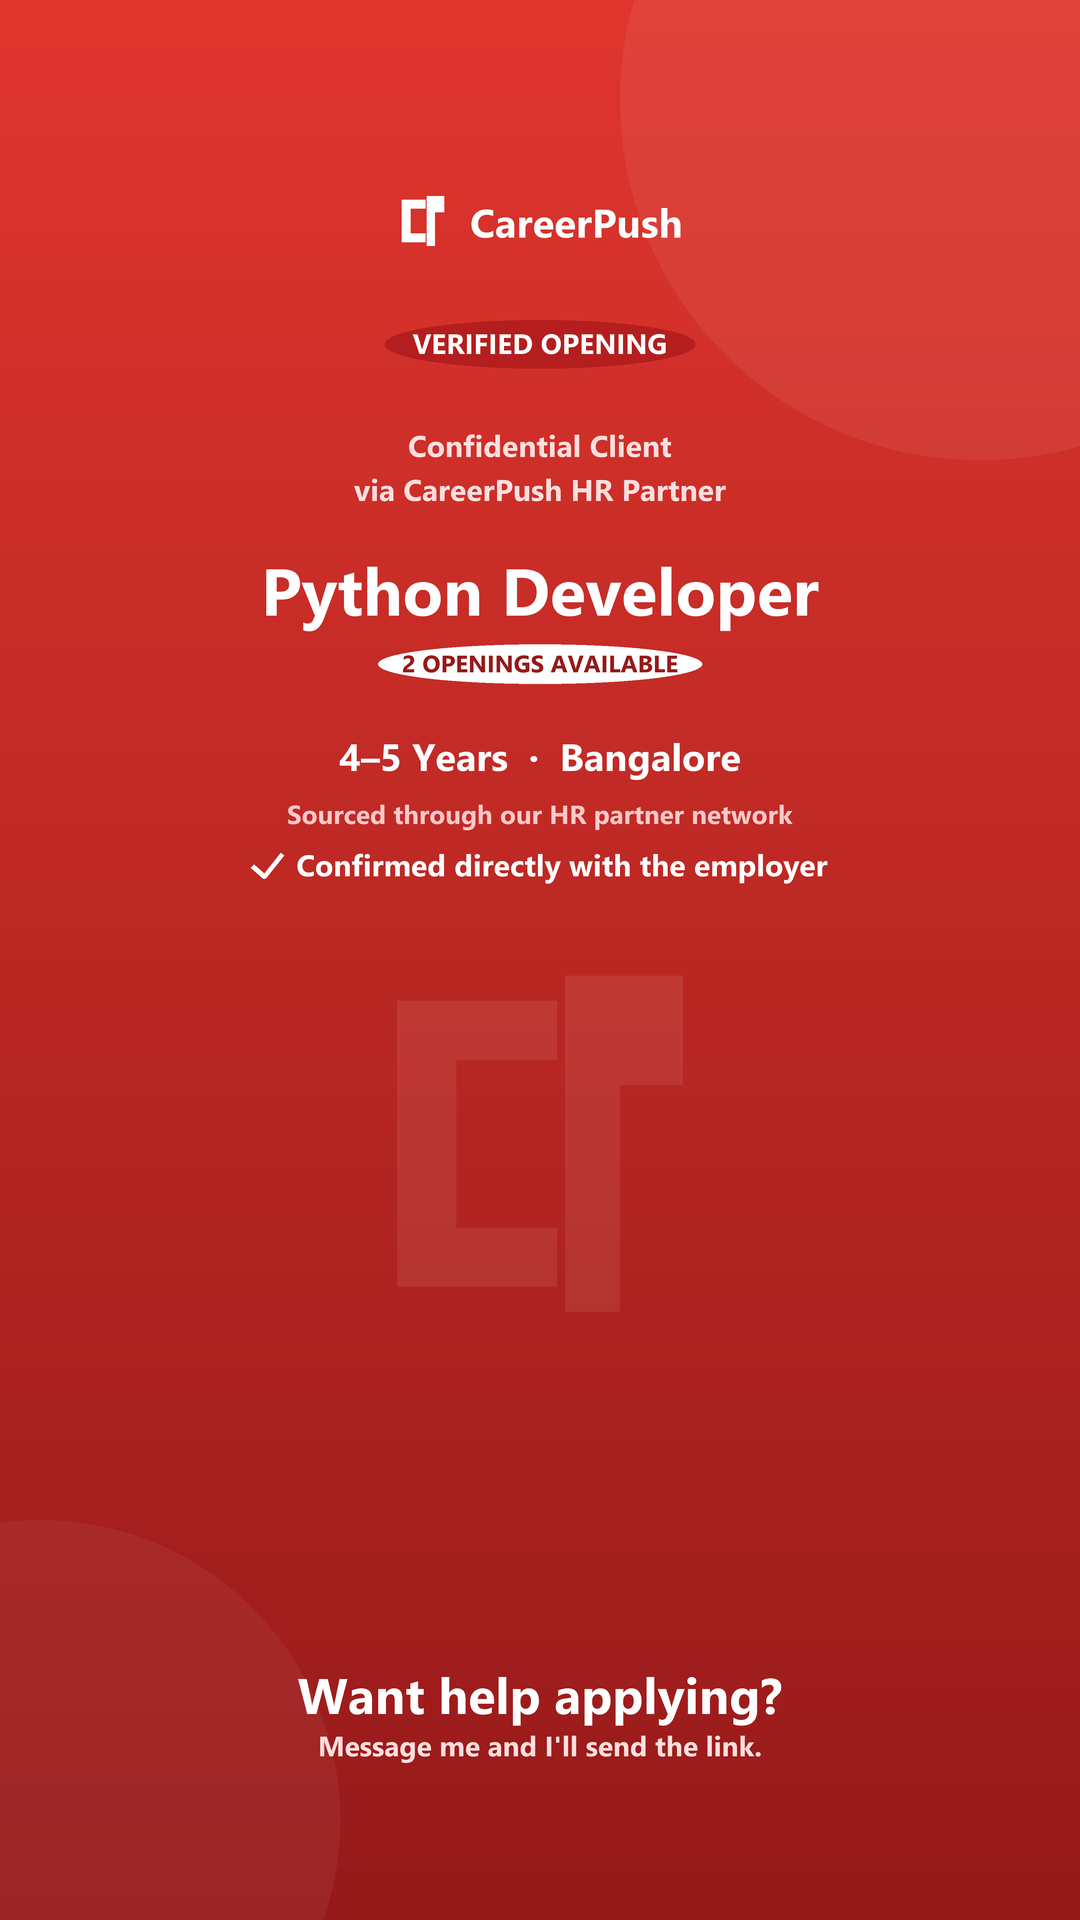
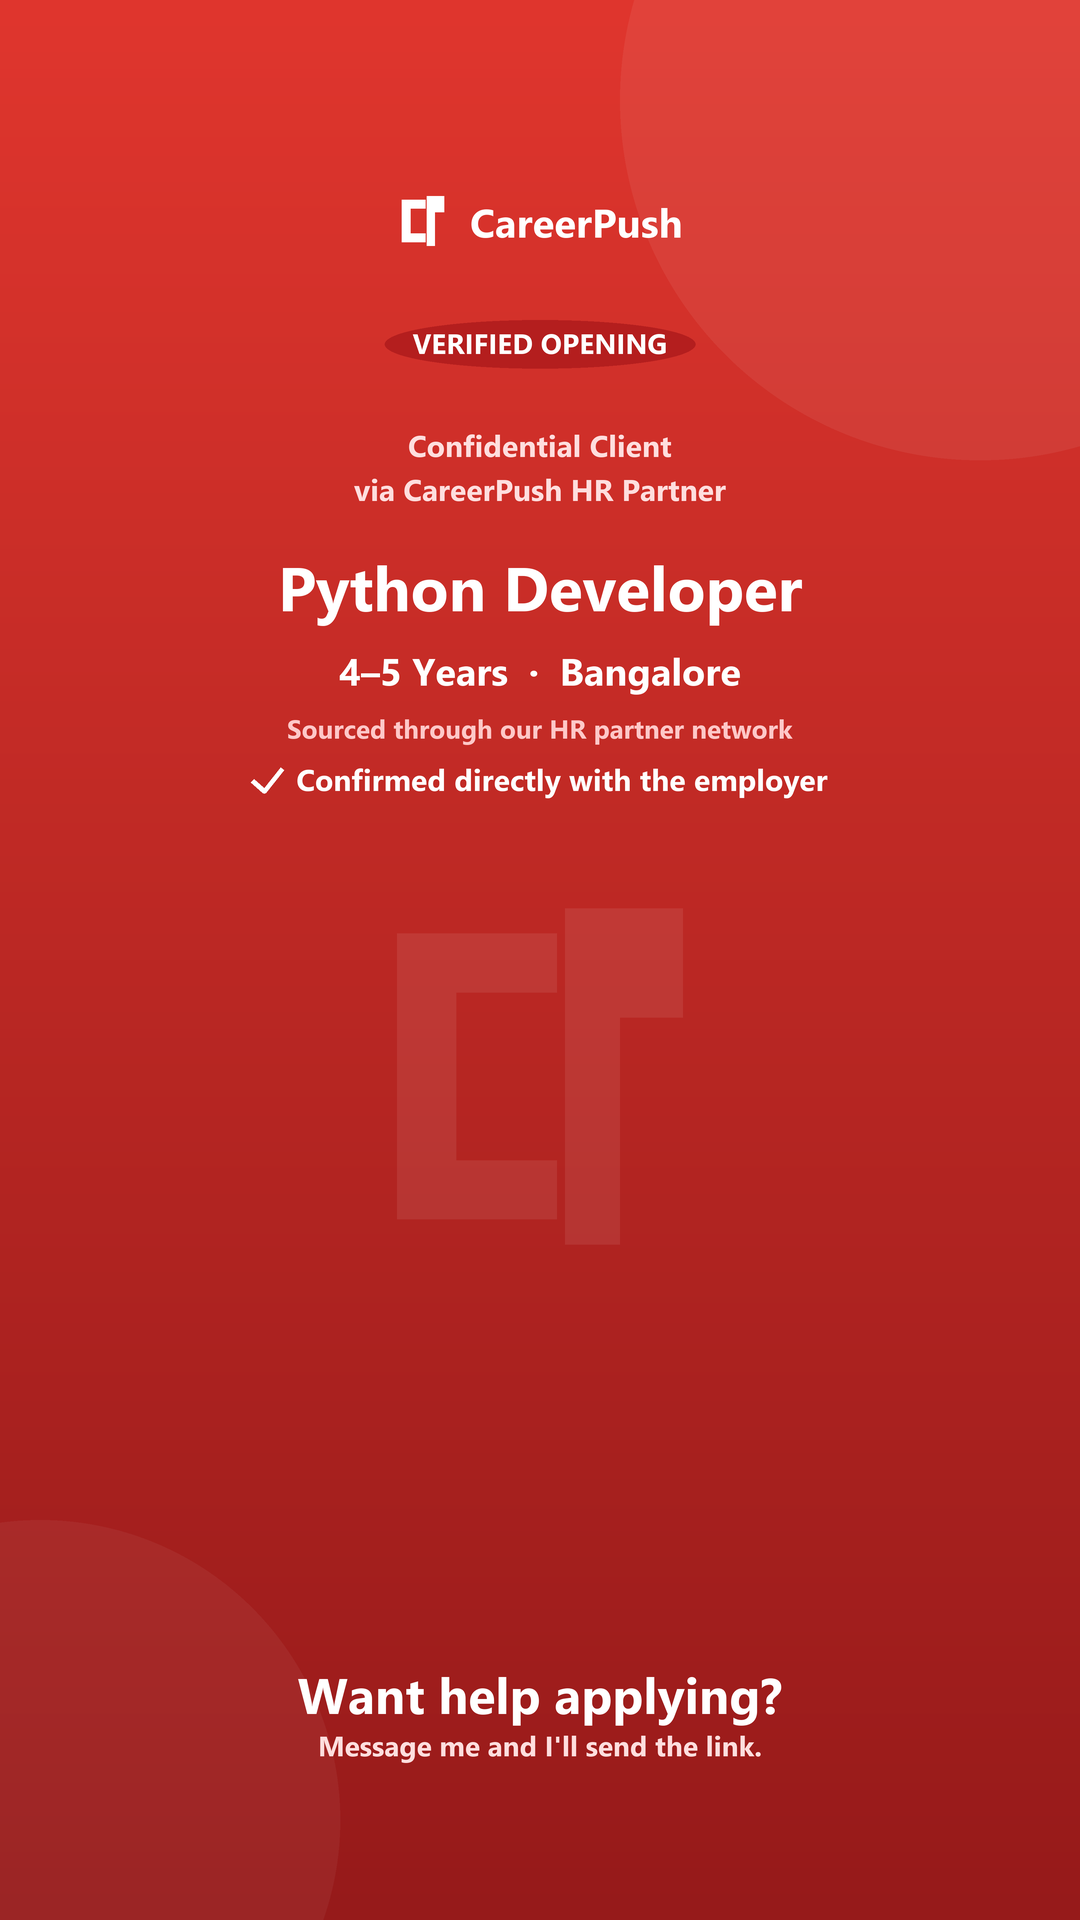
Add job-opening flyers and status posters for Python Developer and Data Engineer roles
Fixes the Python Developer status graphic to reflect one confirmed opening
(not two), adds a matching Data Engineer opening flyer/status image in the
same brand style, and tightens the flyer template's spacing so longer JDs
(8+ bullets per column) still fit on a single A4 page.

Changed region(s): [[0.2444, 0.2812, 0.7639, 0.4688]]

diff --git a/templates/job-opening-flyer-data-engineer.html b/templates/job-opening-flyer-data-engineer.html
@@ -218,7 +218,7 @@
 <div class="page">
   <div class="ribbon">
     <span class="label">OPENING</span>
-    <span class="num" contenteditable="true">01</span>
+    <span class="num" contenteditable="true">02</span>
   </div>
 
   <div class="brand-row">
@@ -237,16 +237,16 @@
   <div class="hero">
     <p class="we-are">WE ARE</p>
     <p class="hiring">HIRING!</p>
-    <div class="role-bar" contenteditable="true">Python Developer</div>
+    <div class="role-bar" contenteditable="true">Data Engineer (Mid-Level)</div>
     <div class="location-row">
       <span>&#128205;</span>
-      <span contenteditable="true">Bangalore</span>
+      <span contenteditable="true">Hybrid — [city to be confirmed]</span>
     </div>
     <div class="exp-badge">
       <span class="icon">&#128188;</span>
       <span>
         <span class="exp-label">EXPERIENCE</span><br>
-        <span class="exp-value" contenteditable="true">4 – 5 Years</span>
+        <span class="exp-value" contenteditable="true">3 – 5 Years</span>
       </span>
     </div>
   </div>
@@ -254,7 +254,7 @@
   <div class="body-grid">
     <div>
       <p class="section-title">ABOUT THE ROLE</p>
-      <p class="about-text" contenteditable="true">We are looking for a Python Developer with 4 to 5 years of experience to develop, maintain, and enhance enterprise automation solutions. The candidate will independently manage application development, API integrations, server deployment, scheduled jobs, reporting, and production support.</p>
+      <p class="about-text" contenteditable="true">We are seeking a skilled Data Engineer to design, build, and maintain robust data pipelines and infrastructure. You will work with cross-functional teams to support analytics, business intelligence, and data science initiatives. This role requires expertise in cloud data platforms and the ability to optimize data workflows for performance and scalability.</p>
 
       <div class="apply-row">
         <div class="apply-btn">APPLY NOW &nbsp;&#8594;</div>
@@ -268,25 +268,30 @@
     <div>
       <p class="section-title">KEY RESPONSIBILITIES</p>
       <ul class="bullets" contenteditable="true">
-        <li>Develop and maintain Python-based automation applications.</li>
-        <li>Integrate enterprise tools and external systems using REST APIs.</li>
-        <li>Deploy and manage applications on internal servers.</li>
-        <li>Automate data processing, reporting, and email notifications.</li>
-        <li>Write clean, reusable, and well-tested code.</li>
-        <li>Troubleshoot application and integration issues.</li>
+        <li>Design and optimize ETL/ELT pipelines using Snowflake for data ingestion, transformation, and loading.</li>
+        <li>Build and maintain scalable data architectures supporting analytical and operational workloads.</li>
+        <li>Monitor, troubleshoot, and optimize data pipeline performance and query execution.</li>
+        <li>Implement data validation frameworks to ensure data accuracy and consistency.</li>
+        <li>Collaborate with data analysts, scientists, and business stakeholders on requirements and solutions.</li>
+        <li>Maintain comprehensive technical documentation for data processes and systems.</li>
+        <li>Implement monitoring and alerting systems; provide production support for data pipelines.</li>
+        <li>Participate in peer code reviews and contribute to best practices.</li>
       </ul>
 
       <p class="section-title">REQUIRED SKILLS</p>
       <ul class="bullets" contenteditable="true">
-        <li>Strong hands-on experience in Python development.</li>
-        <li>Experience with REST APIs, JSON, CSV, and data processing.</li>
-        <li>Knowledge of Git, logging, exception handling, and automated testing.</li>
-        <li>Good problem-solving, communication, and ownership skills.</li>
+        <li>3–5 years of hands-on experience in data engineering or ETL development.</li>
+        <li>Proven expertise with Snowflake — database design, queries, performance tuning, and data loading.</li>
+        <li>Understanding of data warehouse concepts, dimensional modeling, and Data Vault concepts.</li>
+        <li>Advanced SQL proficiency for complex queries, optimization, and data manipulation.</li>
+        <li>Strong experience with Python for data pipeline development.</li>
+        <li>Experience with cloud environments, specifically Azure.</li>
+        <li>Familiarity with workflow orchestration tools such as Airflow or dbt, and Git.</li>
       </ul>
 
       <div class="nice-to-have">
         <span class="star">&#9733;</span>
-        <span contenteditable="true">Experience with enterprise tools, databases, Docker, and cloud or secrets-management platforms is an advantage.</span>
+        <span contenteditable="true">Experience with Azure Databricks or Apache Spark, CI/CD practices, an Azure Data Engineer Associate or Snowflake certification, and Agile/Scrum experience are all pluses.</span>
       </div>
     </div>
   </div>
@@ -294,19 +299,19 @@
   <div class="stats-bar">
     <div class="stat">
       <div class="stat-label">Interview Process</div>
-      <div class="stat-value" contenteditable="true">3 Rounds (2 Virtual + 1 F2F)</div>
+      <div class="stat-value" contenteditable="true">[to be confirmed]</div>
     </div>
     <div class="stat">
       <div class="stat-label">Work Mode</div>
-      <div class="stat-value" contenteditable="true">Hybrid (3 Days/Office)</div>
+      <div class="stat-value" contenteditable="true">Hybrid</div>
     </div>
     <div class="stat">
       <div class="stat-label">Shift Timing</div>
-      <div class="stat-value" contenteditable="true">Regular Shifts</div>
+      <div class="stat-value" contenteditable="true">[to be confirmed]</div>
     </div>
     <div class="stat">
       <div class="stat-label">Weekend Work</div>
-      <div class="stat-value" contenteditable="true">No Weekend Shifts</div>
+      <div class="stat-value" contenteditable="true">[to be confirmed]</div>
     </div>
   </div>
 

diff --git a/templates/job-opening-flyer-python-developer.html b/templates/job-opening-flyer-python-developer.html
@@ -274,6 +274,8 @@
         <li>Automate data processing, reporting, and email notifications.</li>
         <li>Write clean, reusable, and well-tested code.</li>
         <li>Troubleshoot application and integration issues.</li>
+        <li>Maintain technical and operational documentation.</li>
+        <li>Work independently with business and technical stakeholders.</li>
       </ul>
 
       <p class="section-title">REQUIRED SKILLS</p>
@@ -281,6 +283,8 @@
         <li>Strong hands-on experience in Python development.</li>
         <li>Experience with REST APIs, JSON, CSV, and data processing.</li>
         <li>Knowledge of Git, logging, exception handling, and automated testing.</li>
+        <li>Experience deploying applications on Linux or Windows servers.</li>
+        <li>Familiarity with job scheduling and CI/CD pipelines.</li>
         <li>Good problem-solving, communication, and ownership skills.</li>
       </ul>
 
